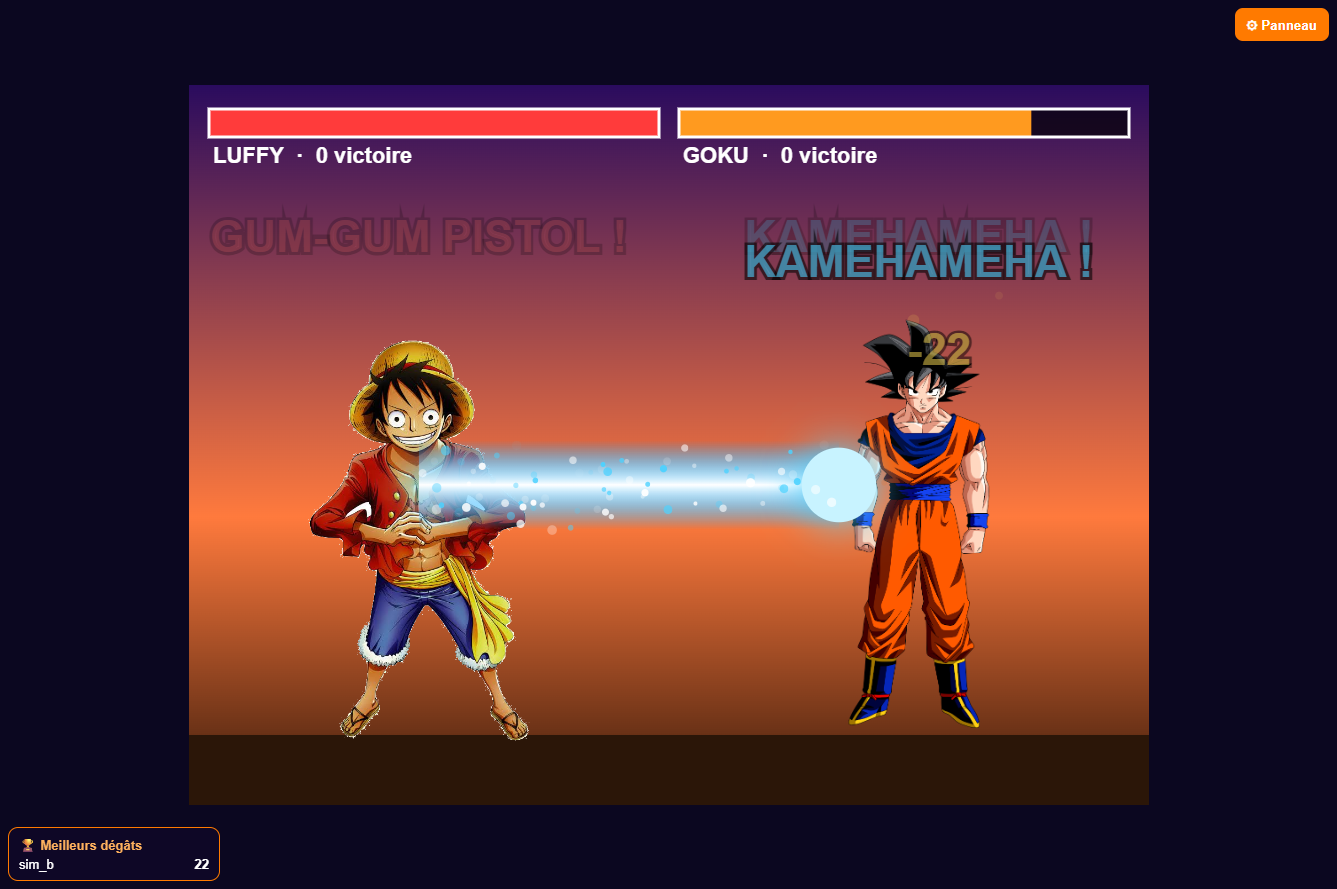
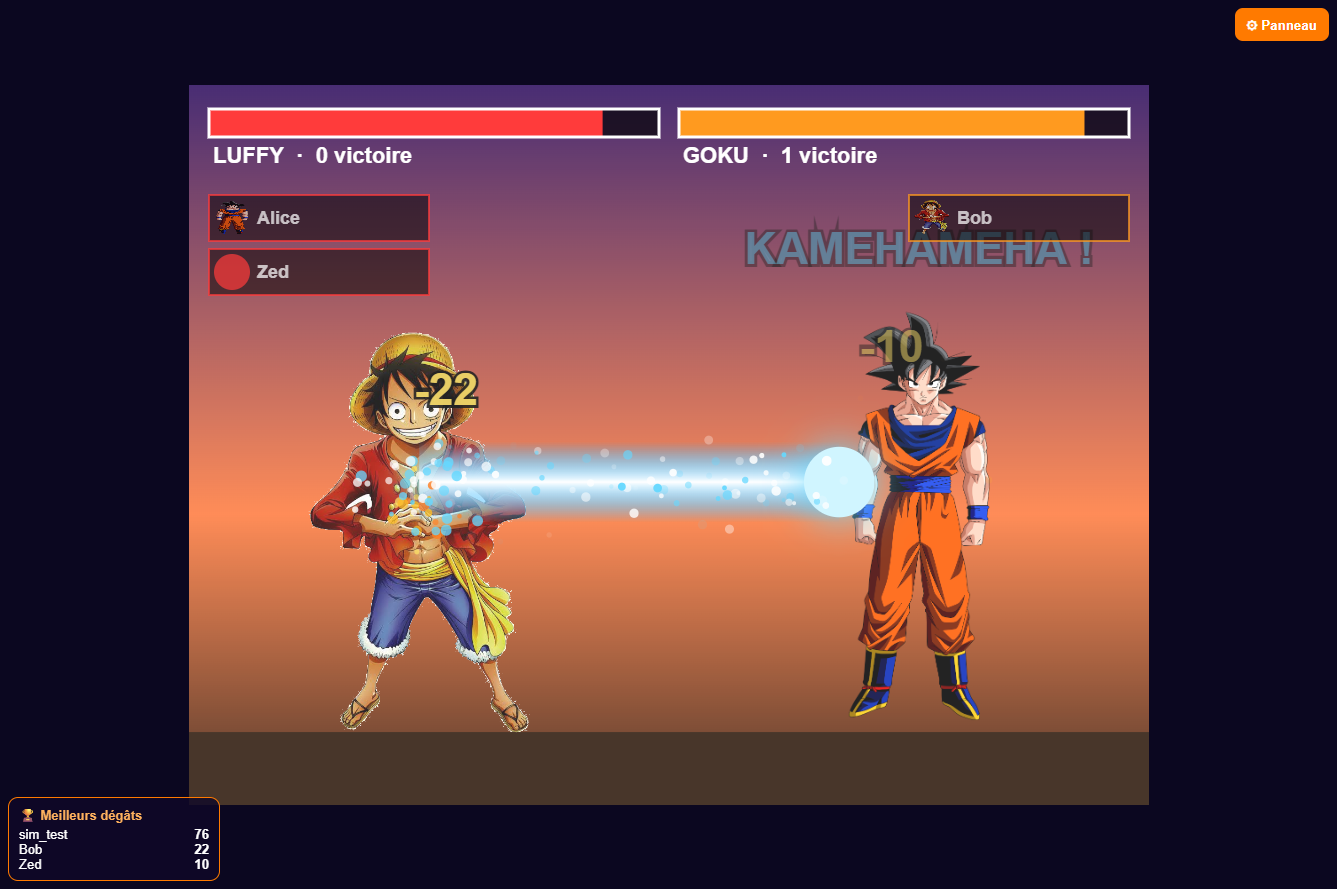
Duel Goku vs Luffy : pseudo et photo du spectateur à chaque attaque

diff --git a/combat-goku-luffy.html b/combat-goku-luffy.html
@@ -92,8 +92,9 @@ function hit(who, amount, user) {
 
 function lunge(who, power) { const f = fighters[who]; f.atk = 1; f.atkT = 0; f.atkPower = power; }
 
-function act(who, coins, user) {
+function act(who, coins, user, avatar) {
   if (over) return;
+  callout(who, user, avatar);
   const foe = other(who), f = fighters[who];
   if (coins >= 50) {
     if (who === 'goku') { f.ssj = 1800; burst(f.x, GROUND - 200, 60, ['#ffe14d', '#ffb300'], 14); say('SUPER SAIYAN !', f.x, 250, '#ffe14d'); }
@@ -136,7 +137,16 @@ function teamOf(user) {
   if (!teams[user]) teams[user] = Math.random() < .5 ? 'luffy' : 'goku';
   return teams[user];
 }
-function onGift(user, coins) { act(teamOf(user), coins, user); }
+function onGift(user, coins, avatar) { act(teamOf(user), coins, user, avatar); }
+const avatars = {};
+function callout(who, user, avatar) {
+  if (!user || user === 'sim_test') return;
+  let img = null;
+  if (avatar) { img = avatars[avatar] || (avatars[avatar] = Object.assign(new Image(), { src: avatar })); }
+  callouts.push({ who, user: String(user).slice(0, 18), img, a: 1 });
+  if (callouts.length > 4) callouts.shift();
+}
+const callouts = [];
 
 function renderBoard() {
   const rows = Object.entries(dmg).sort((a, b) => b[1] - a[1]).slice(0, 5);
@@ -171,6 +181,8 @@ function update(dt) {
   particles.forEach(p => { p.x += p.vx * dt * .6; p.y += p.vy * dt * .6; p.alpha -= p.decay * dt; });
   particles = particles.filter(p => p.alpha > 0);
   texts.forEach(t => { t.y -= dt * .8; t.a -= dt * .012; });
+  callouts.forEach(c => { c.a -= dt * .006; });
+  while (callouts.length && callouts[0].a <= 0) callouts.shift();
   texts = texts.filter(t => t.a > 0);
   shake *= Math.pow(.9, dt); flash *= Math.pow(.9, dt);
   if (over) { overT += dt; if (overT > 420) newMatch(); }
@@ -244,6 +256,21 @@ function frame(time) {
   if (flash > .05) { ctx.fillStyle = 'rgba(255,255,255,' + flash * .35 + ')'; ctx.fillRect(-30, -30, W + 60, H + 60); }
   ctx.restore();
   drawBars();
+  ['luffy', 'goku'].forEach(side => {
+    callouts.filter(c => c.who === side).forEach((c, i) => {
+      const x = side === 'luffy' ? 20 : W - 240, y = 110 + i * 54;
+      ctx.globalAlpha = Math.max(0, Math.min(1, c.a));
+      ctx.fillStyle = '#000b'; ctx.fillRect(x, y, 220, 46);
+      ctx.strokeStyle = fighters[side].color; ctx.lineWidth = 2; ctx.strokeRect(x, y, 220, 46);
+      if (c.img && c.img.complete && c.img.naturalWidth) {
+        ctx.save(); ctx.beginPath(); ctx.arc(x + 23, y + 23, 18, 0, 6.283); ctx.clip();
+        ctx.drawImage(c.img, x + 5, y + 5, 36, 36); ctx.restore();
+      } else { ctx.fillStyle = fighters[side].color; ctx.beginPath(); ctx.arc(x + 23, y + 23, 18, 0, 6.283); ctx.fill(); }
+      ctx.fillStyle = '#fff'; ctx.font = 'bold 18px Arial'; ctx.textAlign = 'left';
+      ctx.fillText(c.user, x + 48, y + 29);
+    });
+  });
+  ctx.globalAlpha = 1;
   if (over) {
     ctx.fillStyle = '#000a'; ctx.fillRect(0, 260, W, 150);
     ctx.fillStyle = '#ffd21a'; ctx.font = 'bold 64px Arial'; ctx.textAlign = 'center'; ctx.fillText(lastWinMsg, W / 2, 350);
@@ -258,7 +285,7 @@ function handleMessage(d) {
     if (u && t === '1') teams[u] = 'luffy'; else if (u && t === '2') teams[u] = 'goku';
   } else if (d.type === 'gift' || d.type === 'tiktok-gift') {
     const x = d.gift || d;
-    onGift(x.uniqueId || x.username || x.nickname || 'inconnu', x.coinCount ?? ((x.coinValue ?? x.diamondCount ?? x.diamonds ?? 1) * (x.repeatCount || 1)));
+    onGift(x.uniqueId || x.username || x.nickname || 'inconnu', x.coinCount ?? ((x.coinValue ?? x.diamondCount ?? x.diamonds ?? 1) * (x.repeatCount || 1)), x.avatarDataUri || x.profilePictureUrl || '');
   }
 }
 let ws;
